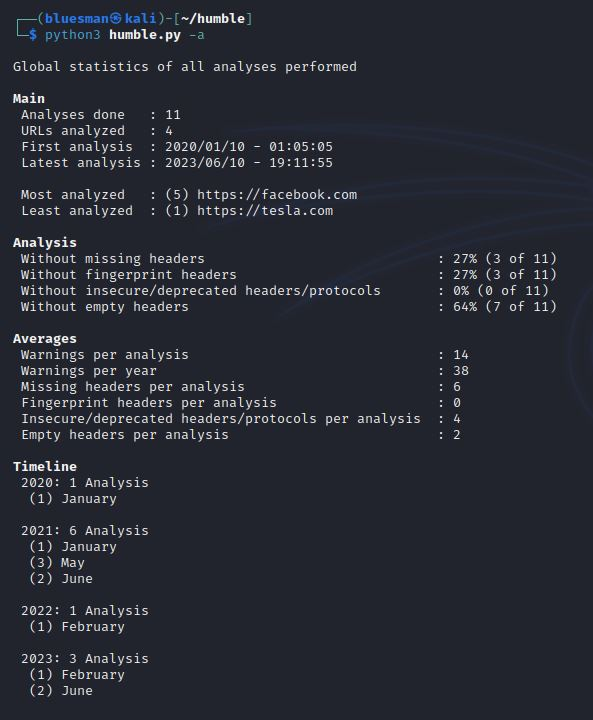
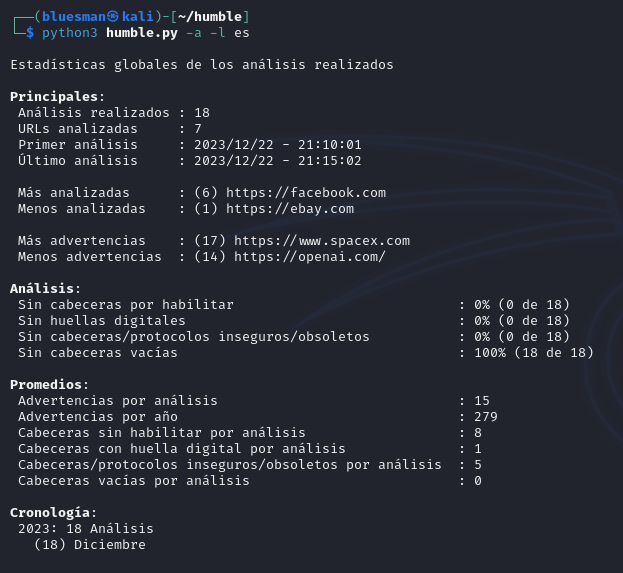
Feature: Show, in the global statistics, the best and worst results.

diff --git a/humble.py b/humble.py
@@ -524,7 +524,21 @@ def get_global_metrics(url_ln, url_lines):
     least_analyzed_u = min(url_lines, key=url_lines.get)
     least_analyzed_c = url_lines[least_analyzed_u]
     least_analyzed_cu = f"({least_analyzed_c}) {least_analyzed_u}"
-    return first_a, latest_a, unique_u, most_analyzed_cu, least_analyzed_cu
+    most_warnings, least_warnings = get_global_warnings(url_ln)
+    return (first_a, latest_a, unique_u, most_analyzed_cu, least_analyzed_cu,
+            most_warnings, least_warnings)
+
+
+def get_global_warnings(url_ln):
+    most_warnings_u = max(url_ln, key=lambda line: int(line.split(' ; ')[-1]))
+    most_warnings_c = most_warnings_u.split(' ; ')[1]
+    most_warnings_cu = str(most_warnings_u.split(' ; ')[-1]).strip()
+    most_warning_p = f"({most_warnings_cu}) {most_warnings_c}"
+    least_warnings_u = min(url_ln, key=lambda line: int(line.split(' ; ')[-1]))
+    least_warnings_c = least_warnings_u.split(' ; ')[1]
+    least_warnings_cu = str(least_warnings_u.split(' ; ')[-1]).strip()
+    least_warnings_p = f"({least_warnings_cu}) {least_warnings_c}"
+    return (most_warning_p, least_warnings_p)
 
 
 def get_basic_global_metrics(total_a, first_m):
@@ -533,7 +547,9 @@ def get_basic_global_metrics(total_a, first_m):
             '[first_analysis_a]': first_m[0],
             '[latest_analysis]': first_m[1] + "\n",
             '[most_analyzed]': first_m[3],
-            '[least_analyzed]': first_m[4] + "\n"}
+            '[least_analyzed]': first_m[4] + "\n",
+            '[most_warnings]': first_m[5],
+            '[least_warnings]': first_m[6] + "\n"}
 
 
 def print_global_metrics(total_a, first_m, second_m, third_m, additional_m):
